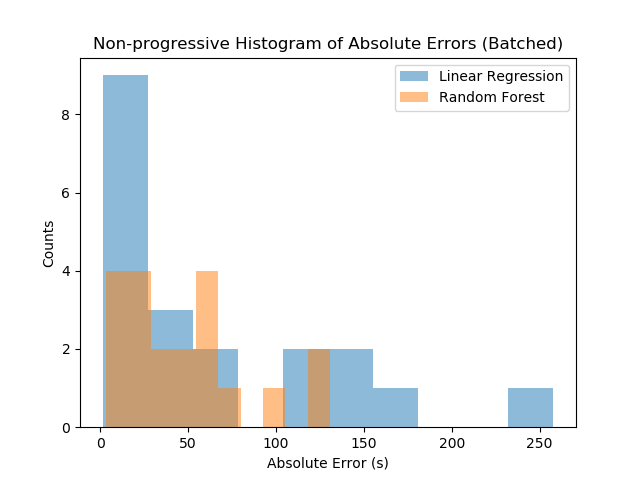
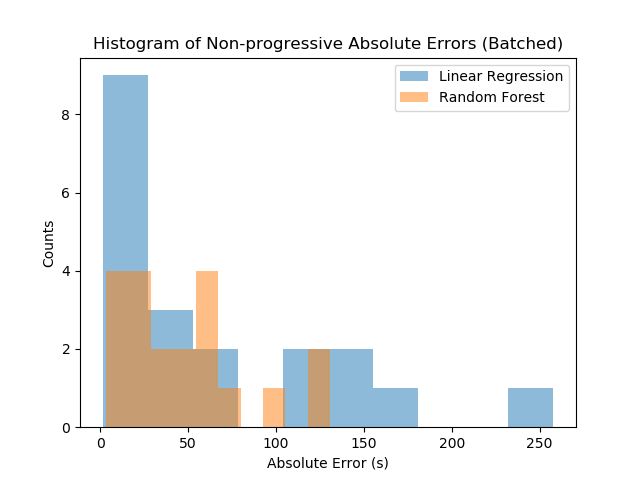
line plots

Changed region(s): [[0.1562, 0.0625, 0.5312, 0.125]]

diff --git a/model/models.py b/model/models.py
@@ -252,25 +252,41 @@ def plot_p_np_predictions(pred_df, pred_df_sum):
     plt.hist(np.abs(pred_df_sum.actual - pred_df_sum.lr_np), alpha=0.5, label='Linear Regression')
     plt.hist(np.abs(pred_df_sum.actual - pred_df_sum.rf_np), alpha=0.5, label='Random Forest')
     plt.legend()    
-    plt.title("Non-progressive Histogram of Absolute Errors (Batched)")
+    plt.title("Histogram of Non-progressive Absolute Errors (Batched)")
     plt.xlabel('Absolute Error (s)')
     plt.ylabel('Counts')
     plt.savefig('np_batch_error_hist.png')
+
+    # line plot
+    plt.figure()
+    plt.plot(pred_df_sum.lr_np)
+    plt.plot(pred_df_sum.rf_np)
+    plt.plot(pred_df_sum.actual)
+    plt.title("Non-progressive Predictions (Batched)")
+    plt.xlabel('Batch')
+    plt.ylabel('Runtime (s)')
+    plt.savefig('np_batch_error.png')
 
     # overlay histograms of errors (individual)
     plt.figure()
     plt.hist(np.abs(pred_df.actual - pred_df.lr_np), alpha=0.5, label='Linear Regression')
     plt.hist(np.abs(pred_df.actual - pred_df.rf_np), alpha=0.5, label='Random Forest')
     plt.legend()    
-    plt.title("Non-progressive Histogram of Absolute Errors (Per-script)")
+    plt.title("Histogram of Non-progressive Absolute Errors (Per-script)")
     plt.xlabel('Absolute Error (s)')
     plt.ylabel('Counts')
     plt.savefig('np_script_error_hist.png')
 
+    # line plot
+    plt.figure()
+    plt.plot(pred_df.lr_np)
+    plt.plot(pred_df.rf_np)
+    plt.plot(pred_df.actual)
+    plt.title("Non-progressive Predictions (Per-script)")
+    plt.xlabel('Batch')
+    plt.ylabel('Runtime (s)')
+    plt.savefig('np_script_error.png')
 
-
-def roc():
-    pass
 
 
 if __name__ == '__main__':
